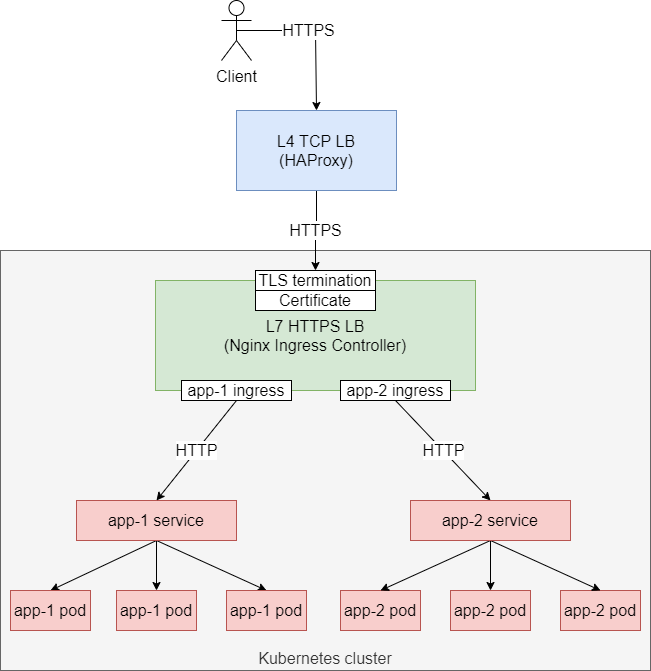
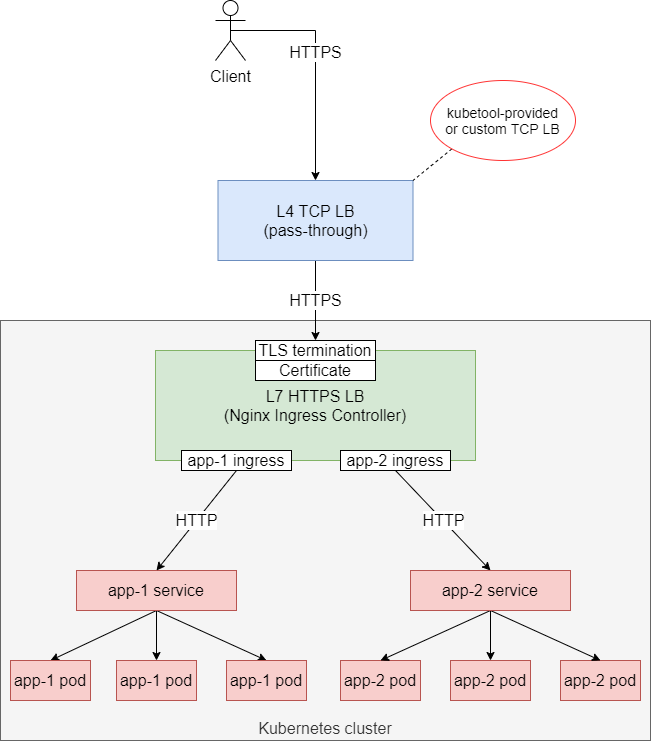
TCP load balancer installation options (#67)
* kubetool-provided

* Add files via upload

* kubetool-provided

* custom

* custom

* allow deny

* preserve

* toc

* Update documentation/LoadBalancing.md

* Update LoadBalancing.md

* Doc Review (MANOPD-68425)

* Doc Review (MANOPD-68425)

* Update LoadBalancing.md

diff --git a/documentation/LoadBalancing.md b/documentation/LoadBalancing.md
@@ -1,0 +1,142 @@
+The following functions are installed in this section.  
+
+**Table of Content**
+
+- [TLS Termination on Nginx Ingress Controller](#tls-termination-on-nginx-ingress-controller)
+  - [How to Install](#how-to-install)
+  - [Using Kubetool-provided TCP Load Balancer](#using-kubetool-provided-tcp-load-balancer)
+  - [Using Custom TCP Load Balancer](#using-custom-tcp-load-balancer)
+- [Advanced Load Balancing Techniques](#advanced-load-balancing-techniques)
+  - [Allow and Deny Lists](#allow-and-deny-lists)
+  - [Preserving Original HTTP Headers](#preserving-original-http-headers)
+
+## TLS Termination on Nginx Ingress Controller
+
+This is the default recommended approach to the TLS termination on kubetool-installed environments. This approach is applicable when MTLS is not used in kubernetes and all communications between the pods are over plain HTTP.
+A high-level overview of this approach is shown in the following image.
+
+![](/documentation/images/tls-termination-nginx.png)
+
+Here, the client creates a HTTPS connection to the TCP load balancer, which in turn proxies the traffic to the Nginx Ingress Controller without a TLS termination.
+Nginx Ingress Controller uses a default wildcard certificate to authenticate itself to a client and to terminate the HTTPS connection.
+To support multiple hostnames, the certificate can use wildcard SANs.
+Nginx Ingress Controller contacts applications using plain HTTP connection.
+Thus using this approach, it is very easy to manage only one certificate in one place - TLS traffic is terminated on the Nginx Ingress Controller using the default certificate for all application ingresses.
+
+For more information about Nginx Ingress Controller default certificate, visit [https://kubernetes.github.io/ingress-nginx/user-guide/tls/#default-ssl-certificate](https://kubernetes.github.io/ingress-nginx/user-guide/tls/#default-ssl-certificate).
+
+**Limitations**
+
+This approach has the following limitations:
+
+* Adding a new hostname might require to re-issue the certificate, if the new hostname does not match any previous wildcard SANs.
+* Connections from the Nginx Ingress Controller to applications are through HTTP; thus, without an encryption.
+* L7 load balancing options can be customized through "ingress" resources only.
+
+### How to Install
+
+To enable TLS termination on Nginx Ingress Controller using the default certificate, it is required to customize the "nginx" plugin with a custom default certificate.
+This can be done during:
+
+* Installation; for details, refer to [nginx plugin installation](/documentation/Installation.md#nginx-ingress-controller).
+* On an already installed Nginx Ingress Controller, using the `certs_renew` maintenance procedure. For details, refer to [certificate renew maintenance procedure](/documentation/Maintenance.md#configuring-certificate-renew-procedure-for-nginx-ingress-controller).
+
+**Important**: The default certificate should be issued to wildcard hostnames, so that it can be used for all ingresses.
+
+### Using Kubetool-provided TCP Load Balancer
+
+Using kubetool you can install and configure HAProxy TCP load balancers in the HA mode using VRRP.
+To do so, assign a `balancer` role to the hosts where HAProxy and Keepalived should be installed.
+For more information, refer to the [`nodes` Installation Section](/documentation/Installation.md#nodes).
+For instructions on how to configure VRRP IPs for balancer nodes, refer to the [`vrrp_ips` Installation Section](/documentation/Installation.md#vrrp_ips).
+For load balancer nodes' hardware requirements, refer to [Minimal Hardware Requirements](/documentation/Installation.md#minimal-hardware-requirements).
+
+### Using Custom TCP Load Balancer
+
+You can also use your own TCP load balancer instead of kubetool-provided HAProxy.
+In this case, your custom TCP load balancer should meet the following requirements:
+
+* The load balancer should be fully configured and working before running the cluster installation using kubetool.
+* The load balancer's internal and external VRRP IP addresses should be specified in `cluster.yaml`. For more information, refer to the [`control_plain` Installation Section](/documentation/Installation.md#control_plain).
+* The load balancer should be an L4 pass-through TCP load balancer, without TLS termination.
+* The load balancer should be Highly Available.
+* The load balancer should have HTTPS (port 443) and Kubernetes API (port 6443) frontends.
+* The HTTPS frontend should point to backend port 443 of worker nodes where Nginx Ingress Controller is installed.
+* The Kubernetes API frontend should point to backend port 6443 of all master nodes.
+* The load balancer backend configuration should be updated accordingly when new nodes are added or removed from a cluster.
+
+## Advanced Load Balancing techniques
+
+### Allow and Deny Lists
+
+Sometimes, it may be required to allow or deny only specific requests based on some criteria. 
+The possible criteria depends on the type of the load balancer (TCP or HTTP).
+
+#### Allow and Deny Lists on TCP Load Balancer
+
+For a TCP Load Balancer, it is possible to introduce both allow and deny lists based on the source IP address.
+For example, see the HAProxy ACL basics on [http://cbonte.github.io/haproxy-dconv/configuration-1.5.html#7.1](http://cbonte.github.io/haproxy-dconv/configuration-1.5.html#7.1).
+An example of a HAProxy configuration to create an allow list based on source IP addresses is as follows:
+
+```
+frontend www
+  bind *:80
+  mode tcp
+  acl network_allowed src 1.1.1.1 2.2.2.2
+  tcp-request connection reject if !network_allowed
+  use_backend my_backend_server
+```
+
+The drawback of this method is that the TCP load balancer uses these criteria for all the requests.
+Sometimes it is required that the filtering happens only for some specific hostnames.
+To match against hostnames, it is required to configure the allow list on a HTTP load balancer (Nginx Ingress Controller).
+
+#### Allow List on Nginx Ingress Controller
+
+For the Nginx Ingress Controller, it is possible to configure allow lists based on both the hostname and source IP addresses.
+For more information about the Nginx Ingress Controller `whitelist-source-range` annotation, refer to [https://kubernetes.github.io/ingress-nginx/user-guide/nginx-configuration/annotations/#whitelist-source-range](https://kubernetes.github.io/ingress-nginx/user-guide/nginx-configuration/annotations/#whitelist-source-range).
+An example of an ingress configuration to create an allow list based on source IP addresses for a particular hostname is as follows:
+
+```
+apiVersion: networking.k8s.io/v1
+kind: Ingress
+metadata:
+  name: ingress-myservice-whitelist
+  annotations:
+    nginx.ingress.kubernetes.io/whitelist-source-range: "10.0.0.0/24,172.10.0.1"
+spec:
+  ingressClassName: nginx
+  rules:
+  - host: whitelist.myservicea.foo.org
+    http:
+      paths:
+      - path: /
+        pathType: Prefix
+        backend:
+          service:
+            name: myservice
+            port:
+              number: 80
+```
+
+In this example, the `whitelist.myservicea.foo.org` hostname is available only from IP address `172.10.0.1` and subnet `10.0.0.0/24`.
+
+### Preserving Original HTTP Headers
+
+The TCP load balancer does not modify the HTTP response/request headers. 
+The Nginx Ingress Controller also does not modify **custom** HTTP headers. 
+However, the Nginx Ingress Controller may modify some well-known headers as described below:
+1. Nginx Ingress Controller always drops some response headers, 
+particularly, `Date`, `Server`, `X-Pad`, and `X-Accel-...`. For more information, see [http://nginx.org/en/docs/http/ngx_http_proxy_module.html#proxy_hide_header](http://nginx.org/en/docs/http/ngx_http_proxy_module.html#proxy_hide_header).
+2. Nginx Ingress Controller by default sets its own values for `X-Forwarded-*` headers.
+If you have to preserve original values for these headers, refer to the `use-forwarded-header` config map option at [https://kubernetes.github.io/ingress-nginx/user-guide/nginx-configuration/configmap/#use-forwarded-headers](https://kubernetes.github.io/ingress-nginx/user-guide/nginx-configuration/configmap/#use-forwarded-headers).
+This is only required if you have another HTTP LB in front of the Nginx Ingress Controller, which sets these headers.
+3. Nginx Ingress Controller does not forward the `Expect` header. 
+This issue can be solved by adding the "proxy_set_header" field in the NGINX configuration with value, "Expect $http_expect". An example of `cluster.yaml` configuration is as follows:
+
+```
+plugins:
+  nginx-ingress-controller:
+    custom_headers:
+      Expect: $http_expect
+```
